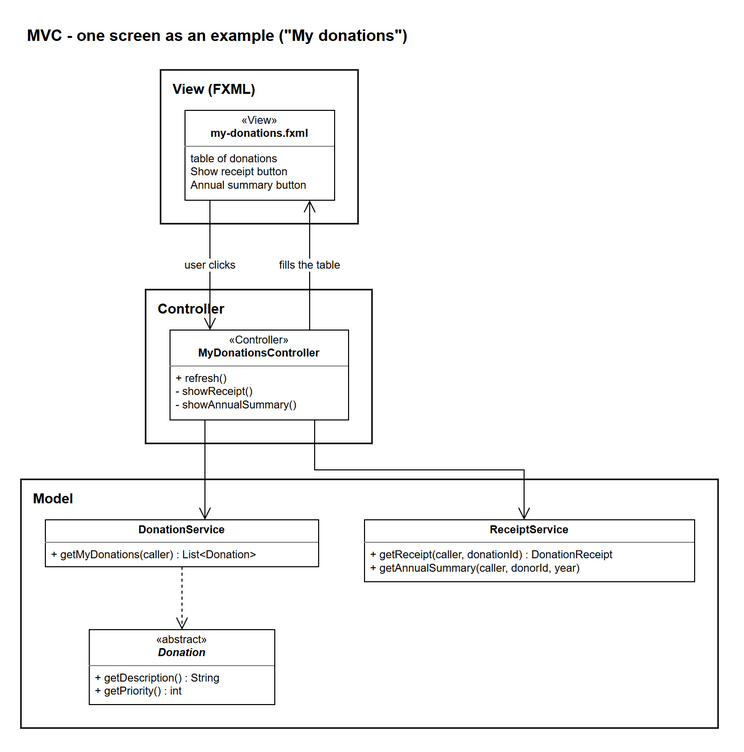
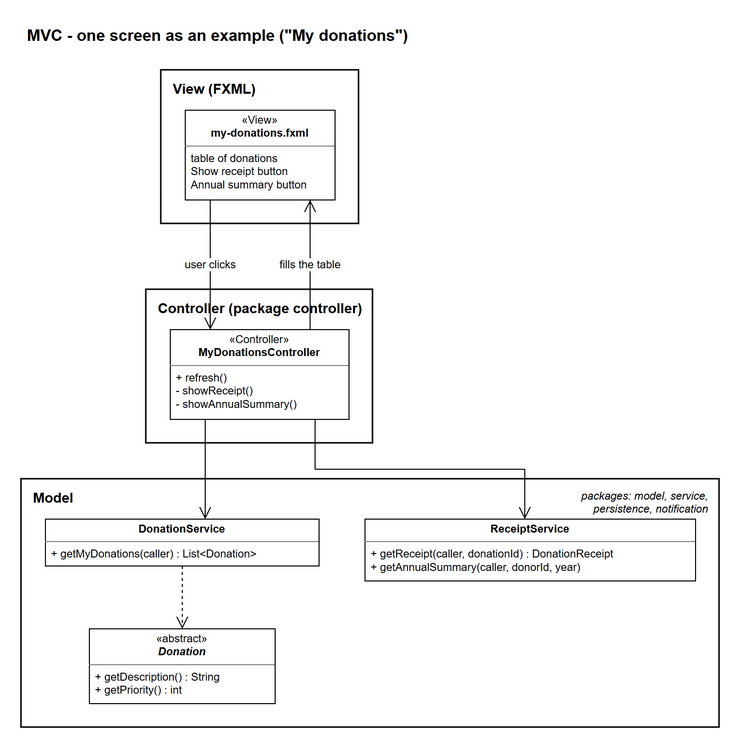
structure changes

diff --git a/src/main/java/com/fooddonation/controller/SubmitDonationController.java b/src/main/java/com/fooddonation/controller/SubmitDonationController.java
@@ -9,11 +9,10 @@ import com.fooddonation.model.donation.addon.AddOn;
 import com.fooddonation.model.lookup.FoodCategory;
 import com.fooddonation.model.lookup.LookupType;
 import com.fooddonation.model.lookup.StorageType;
-import com.fooddonation.persistence.LookupRepository;
 import com.fooddonation.service.DonationService;
-import com.fooddonation.ui.Controls;
-import com.fooddonation.ui.Formats;
-import com.fooddonation.ui.Session;
+import com.fooddonation.service.LookupService;
+import com.fooddonation.view.Controls;
+import com.fooddonation.view.Formats;
 import javafx.fxml.FXML;
 import javafx.geometry.Pos;
 import javafx.scene.Node;
@@ -59,7 +58,7 @@ public class SubmitDonationController implements Refreshable {
 
     private final DonationService donations;
     private final DonationFactory factory;
-    private final LookupRepository lookups;
+    private final LookupService lookups;
     private final Session session;
     private Runnable onSubmitted = () -> { };
 
@@ -106,7 +105,7 @@ public class SubmitDonationController implements Refreshable {
     @FXML private Button submitButton;
     @FXML private Label message;
 
-    public SubmitDonationController(DonationService donations, DonationFactory factory, LookupRepository lookups,
+    public SubmitDonationController(DonationService donations, DonationFactory factory, LookupService lookups,
                                     Session session) {
         this.donations = donations;
         this.factory = factory;
@@ -176,9 +175,9 @@ public class SubmitDonationController implements Refreshable {
     public void refresh() {
         FoodCategory category = categoryBox.getValue();
         StorageType storage = storageBox.getValue();
-        categoryBox.getItems().setAll(lookups.readAll(LookupType.FOOD_CATEGORY).stream()
+        categoryBox.getItems().setAll(lookups.getAll(LookupType.FOOD_CATEGORY).stream()
                 .map(FoodCategory.class::cast).toList());
-        storageBox.getItems().setAll(lookups.readAll(LookupType.STORAGE_TYPE).stream()
+        storageBox.getItems().setAll(lookups.getAll(LookupType.STORAGE_TYPE).stream()
                 .map(StorageType.class::cast).toList());
         categoryBox.setValue(category == null ? null : categoryBox.getItems().stream()
                 .filter(c -> c.getId() == category.getId()).findFirst().orElse(null));

diff --git a/src/main/java/com/fooddonation/controller/LookupTablesController.java b/src/main/java/com/fooddonation/controller/LookupTablesController.java
@@ -2,10 +2,9 @@ package com.fooddonation.controller;
 
 import com.fooddonation.model.lookup.LookupEntry;
 import com.fooddonation.model.lookup.LookupType;
-import com.fooddonation.persistence.LookupRepository;
-import com.fooddonation.ui.Controls;
-import com.fooddonation.ui.Formats;
-import com.fooddonation.ui.Session;
+import com.fooddonation.service.LookupService;
+import com.fooddonation.view.Controls;
+import com.fooddonation.view.Formats;
 import javafx.fxml.FXML;
 import javafx.scene.control.Button;
 import javafx.scene.control.ComboBox;
@@ -19,7 +18,7 @@ import javafx.scene.control.TextField;
  * Donation statuses are not shown: the five lifecycle statuses are fixed (protected system rows).
  */
 public class LookupTablesController implements Refreshable {
-    private final LookupRepository lookups;
+    private final LookupService lookups;
     private final Session session;
 
     @FXML private ComboBox<LookupType> typeBox;
@@ -30,7 +29,7 @@ public class LookupTablesController implements Refreshable {
     @FXML private Button deleteButton;
     @FXML private Label message;
 
-    public LookupTablesController(LookupRepository lookups, Session session) {
+    public LookupTablesController(LookupService lookups, Session session) {
         this.lookups = lookups;
         this.session = session;
     }
@@ -55,7 +54,7 @@ public class LookupTablesController implements Refreshable {
 
     @Override
     public void refresh() {
-        table.getItems().setAll(lookups.readAll(typeBox.getValue()));
+        table.getItems().setAll(lookups.getAll(typeBox.getValue()));
     }
 
     @FXML
@@ -74,7 +73,7 @@ public class LookupTablesController implements Refreshable {
     private void rename() {
         LookupEntry selected = table.getSelectionModel().getSelectedItem();
         try {
-            lookups.update(session.getUser(), typeBox.getValue(), selected.getId(), nameField.getText());
+            lookups.rename(session.getUser(), typeBox.getValue(), selected.getId(), nameField.getText());
             Controls.ok(message, "Renamed to \"" + nameField.getText().trim() + "\".");
             refresh();
         } catch (IllegalArgumentException | IllegalStateException | SecurityException e) {

diff --git a/src/main/java/com/fooddonation/app/ControllerFactory.java b/src/main/java/com/fooddonation/app/ControllerFactory.java
@@ -7,12 +7,12 @@ import com.fooddonation.controller.LoginController;
 import com.fooddonation.controller.LookupTablesController;
 import com.fooddonation.controller.MessageLogController;
 import com.fooddonation.controller.MyDonationsController;
+import com.fooddonation.controller.Navigator;
 import com.fooddonation.controller.ProfileController;
 import com.fooddonation.controller.RegisterController;
 import com.fooddonation.controller.ReviewDonationsController;
+import com.fooddonation.controller.Session;
 import com.fooddonation.controller.SubmitDonationController;
-import com.fooddonation.ui.Navigator;
-import com.fooddonation.ui.Session;
 import javafx.util.Callback;
 
 import java.util.HashMap;
@@ -33,7 +33,7 @@ public class ControllerFactory implements Callback<Class<?>, Object> {
         controllers.put(DonorPanelController.class, () -> new DonorPanelController(session, navigator));
         controllers.put(SubmitDonationController.class,
                 () -> new SubmitDonationController(app.getDonationService(), app.getFactory(),
-                        app.getLookups(), session));
+                        app.getLookupService(), session));
         controllers.put(MyDonationsController.class,
                 () -> new MyDonationsController(app.getDonationService(), app.getReceipts(), session));
         controllers.put(ProfileController.class, () -> new ProfileController(app.getAuth(), session));
@@ -42,7 +42,8 @@ public class ControllerFactory implements Callback<Class<?>, Object> {
         controllers.put(CoordinatorPanelController.class, () -> new CoordinatorPanelController(session, navigator));
         controllers.put(ReviewDonationsController.class,
                 () -> new ReviewDonationsController(app.getDonationService(), app.getReceipts(), session));
-        controllers.put(LookupTablesController.class, () -> new LookupTablesController(app.getLookups(), session));
+        controllers.put(LookupTablesController.class,
+                () -> new LookupTablesController(app.getLookupService(), session));
         controllers.put(MessageLogController.class,
                 () -> new MessageLogController(config.emailLog(), config.smsLog(), session));
     }

diff --git a/src/test/java/com/fooddonation/service/LookupServiceTest.java b/src/test/java/com/fooddonation/service/LookupServiceTest.java
@@ -1,0 +1,48 @@
+package com.fooddonation.service;
+
+import com.fooddonation.model.lookup.FoodCategory;
+import com.fooddonation.model.lookup.LookupEntry;
+import com.fooddonation.model.lookup.LookupType;
+import com.fooddonation.model.user.Coordinator;
+import com.fooddonation.model.user.User;
+import com.fooddonation.persistence.LookupRepository;
+import org.junit.jupiter.api.Test;
+
+import java.util.List;
+
+import static org.junit.jupiter.api.Assertions.assertEquals;
+import static org.junit.jupiter.api.Assertions.assertSame;
+import static org.mockito.Mockito.mock;
+import static org.mockito.Mockito.verify;
+import static org.mockito.Mockito.when;
+
+class LookupServiceTest {
+    private final LookupRepository repository = mock(LookupRepository.class);
+    private final LookupService lookups = new LookupService(repository);
+    private final User coordinator = new Coordinator();
+
+    @Test
+    void getAllReadsFromTheRepository() {
+        List<LookupEntry> entries = List.of(new FoodCategory(1, "Bakery", false));
+        when(repository.readAll(LookupType.FOOD_CATEGORY)).thenReturn(entries);
+
+        assertEquals(entries, lookups.getAll(LookupType.FOOD_CATEGORY));
+    }
+
+    @Test
+    void createReturnsTheSavedEntry() {
+        LookupEntry saved = new FoodCategory(7, "Snacks", false);
+        when(repository.create(coordinator, LookupType.FOOD_CATEGORY, "Snacks")).thenReturn(saved);
+
+        assertSame(saved, lookups.create(coordinator, LookupType.FOOD_CATEGORY, "Snacks"));
+    }
+
+    @Test
+    void renameAndDeleteArePassedOn() {
+        lookups.rename(coordinator, LookupType.STORAGE_TYPE, 3, "Chilled");
+        lookups.delete(coordinator, LookupType.STORAGE_TYPE, 3);
+
+        verify(repository).update(coordinator, LookupType.STORAGE_TYPE, 3, "Chilled");
+        verify(repository).delete(coordinator, LookupType.STORAGE_TYPE, 3);
+    }
+}

diff --git a/src/main/java/com/fooddonation/app/AppContext.java b/src/main/java/com/fooddonation/app/AppContext.java
@@ -18,6 +18,7 @@ import com.fooddonation.persistence.UserRepository;
 import com.fooddonation.service.AuthService;
 import com.fooddonation.service.DonationService;
 import com.fooddonation.service.ExpiryScheduler;
+import com.fooddonation.service.LookupService;
 import com.fooddonation.service.ReceiptService;
 
 import java.time.Clock;
@@ -37,6 +38,7 @@ public class AppContext implements AutoCloseable {
     private final NotificationService notifications;
     private final DonationService donationService;
     private final ReceiptService receipts;
+    private final LookupService lookupService;
     private final ExpiryScheduler scheduler;
     private final DonationFactory factory;
 
@@ -60,6 +62,7 @@ public class AppContext implements AutoCloseable {
         donationService = new DonationService(factory, donations, lookups, users,
                 clock, config.expiryWarningWindow());
         receipts = new ReceiptService(donations, clock);
+        lookupService = new LookupService(lookups);
         // observers are attached once, here
         donationService.attach(new CoordinatorDashboardObserver(notifications, users, config.coordinatorEmail()));
         donationService.attach(new DonorNotificationObserver(notifications));
@@ -115,6 +118,10 @@ public class AppContext implements AutoCloseable {
 
     public ReceiptService getReceipts() {
         return receipts;
+    }
+
+    public LookupService getLookupService() {
+        return lookupService;
     }
 
     public ExpiryScheduler getScheduler() {

diff --git a/src/main/java/com/fooddonation/service/LookupService.java b/src/main/java/com/fooddonation/service/LookupService.java
@@ -1,0 +1,37 @@
+package com.fooddonation.service;
+
+import com.fooddonation.model.lookup.LookupEntry;
+import com.fooddonation.model.lookup.LookupType;
+import com.fooddonation.model.user.User;
+import com.fooddonation.persistence.LookupRepository;
+
+import java.util.List;
+
+/**
+ * DON-7: the lookup tables (food categories, storage types, donation statuses).
+ * Controllers go through this instead of the repository, the same as every other screen.
+ * The repository checks that the caller is a coordinator and that system rows are left alone.
+ */
+public class LookupService {
+    private final LookupRepository lookups;
+
+    public LookupService(LookupRepository lookups) {
+        this.lookups = lookups;
+    }
+
+    public List<LookupEntry> getAll(LookupType type) {
+        return lookups.readAll(type);
+    }
+
+    public LookupEntry create(User caller, LookupType type, String name) {
+        return lookups.create(caller, type, name);
+    }
+
+    public void rename(User caller, LookupType type, long id, String newName) {
+        lookups.update(caller, type, id, newName);
+    }
+
+    public void delete(User caller, LookupType type, long id) {
+        lookups.delete(caller, type, id);
+    }
+}

diff --git a/src/main/java/com/fooddonation/controller/RegisterController.java b/src/main/java/com/fooddonation/controller/RegisterController.java
@@ -4,11 +4,9 @@ import com.fooddonation.model.user.Donor;
 import com.fooddonation.model.user.DonorType;
 import com.fooddonation.notification.ChannelType;
 import com.fooddonation.service.AuthService;
-import com.fooddonation.ui.Controls;
-import com.fooddonation.ui.Formats;
-import com.fooddonation.ui.Navigator;
-import com.fooddonation.ui.Session;
-import com.fooddonation.ui.View;
+import com.fooddonation.view.Controls;
+import com.fooddonation.view.Formats;
+import com.fooddonation.view.View;
 import javafx.fxml.FXML;
 import javafx.scene.control.ComboBox;
 import javafx.scene.control.Label;

diff --git a/src/main/java/com/fooddonation/controller/LoginController.java b/src/main/java/com/fooddonation/controller/LoginController.java
@@ -3,10 +3,8 @@ package com.fooddonation.controller;
 import com.fooddonation.model.user.Role;
 import com.fooddonation.model.user.User;
 import com.fooddonation.service.AuthService;
-import com.fooddonation.ui.Controls;
-import com.fooddonation.ui.Navigator;
-import com.fooddonation.ui.Session;
-import com.fooddonation.ui.View;
+import com.fooddonation.view.Controls;
+import com.fooddonation.view.View;
 import javafx.fxml.FXML;
 import javafx.scene.control.Label;
 import javafx.scene.control.TextField;

diff --git a/src/main/java/com/fooddonation/controller/ReviewDonationsController.java b/src/main/java/com/fooddonation/controller/ReviewDonationsController.java
@@ -5,9 +5,8 @@ import com.fooddonation.model.donation.MoneyDonation;
 import com.fooddonation.model.lookup.DonationStatus;
 import com.fooddonation.service.DonationService;
 import com.fooddonation.service.ReceiptService;
-import com.fooddonation.ui.Controls;
-import com.fooddonation.ui.Formats;
-import com.fooddonation.ui.Session;
+import com.fooddonation.view.Controls;
+import com.fooddonation.view.Formats;
 import javafx.css.PseudoClass;
 import javafx.fxml.FXML;
 import javafx.scene.control.Button;

diff --git a/src/main/java/com/fooddonation/controller/MyDonationsController.java b/src/main/java/com/fooddonation/controller/MyDonationsController.java
@@ -6,9 +6,8 @@ import com.fooddonation.model.donation.MoneyDonation;
 import com.fooddonation.model.lookup.DonationStatus;
 import com.fooddonation.service.DonationService;
 import com.fooddonation.service.ReceiptService;
-import com.fooddonation.ui.Controls;
-import com.fooddonation.ui.Formats;
-import com.fooddonation.ui.Session;
+import com.fooddonation.view.Controls;
+import com.fooddonation.view.Formats;
 import javafx.fxml.FXML;
 import javafx.geometry.Pos;
 import javafx.scene.Node;

diff --git a/src/main/java/com/fooddonation/controller/ProfileController.java b/src/main/java/com/fooddonation/controller/ProfileController.java
@@ -6,9 +6,8 @@ import com.fooddonation.model.user.DonorType;
 import com.fooddonation.model.user.User;
 import com.fooddonation.notification.ChannelType;
 import com.fooddonation.service.AuthService;
-import com.fooddonation.ui.Controls;
-import com.fooddonation.ui.Formats;
-import com.fooddonation.ui.Session;
+import com.fooddonation.view.Controls;
+import com.fooddonation.view.Formats;
 import javafx.fxml.FXML;
 import javafx.scene.control.ComboBox;
 import javafx.scene.control.Label;

diff --git a/src/main/java/com/fooddonation/controller/InboxController.java b/src/main/java/com/fooddonation/controller/InboxController.java
@@ -2,9 +2,8 @@ package com.fooddonation.controller;
 
 import com.fooddonation.notification.InAppInbox;
 import com.fooddonation.notification.InboxMessage;
-import com.fooddonation.ui.Controls;
-import com.fooddonation.ui.Formats;
-import com.fooddonation.ui.Session;
+import com.fooddonation.view.Controls;
+import com.fooddonation.view.Formats;
 import javafx.fxml.FXML;
 import javafx.scene.control.Label;
 import javafx.scene.control.TableColumn;
